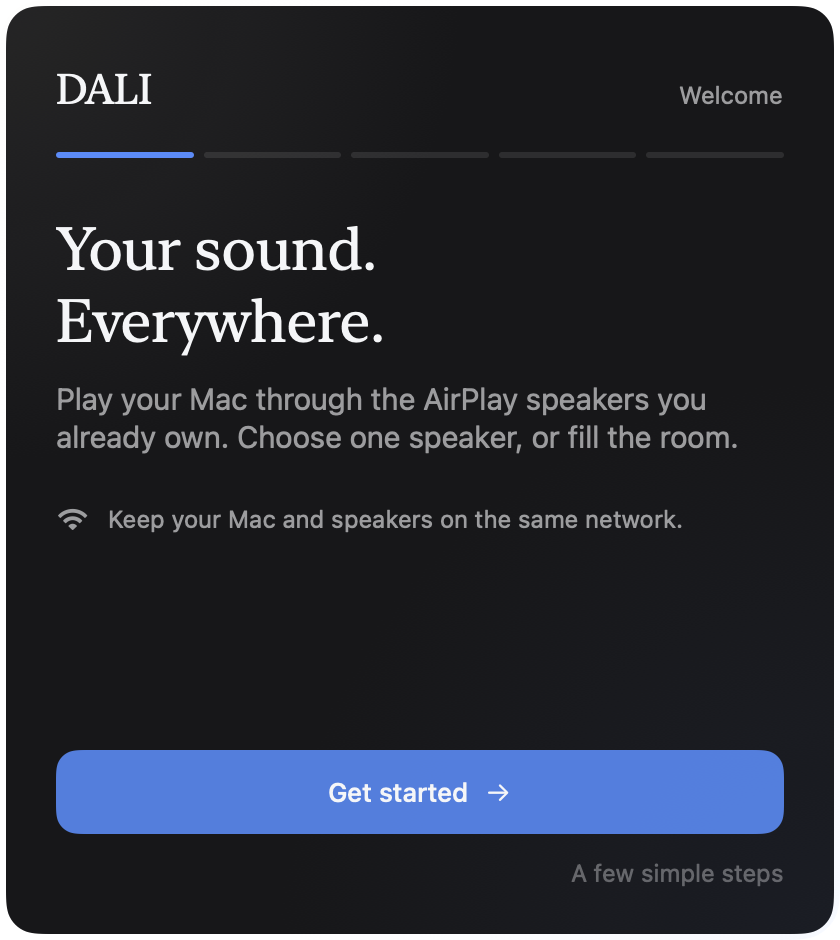
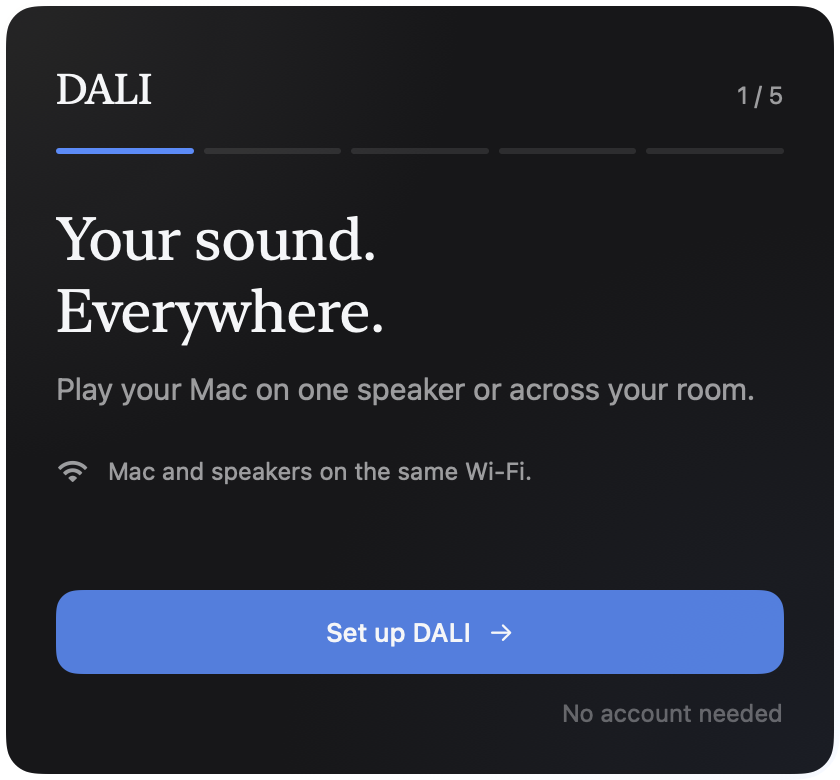
Simplify onboarding copy and make setup actions primary

diff --git a/Sources/DALI/Views/OnboardingView.swift b/Sources/DALI/Views/OnboardingView.swift
@@ -23,6 +23,8 @@ struct OnboardingView: View {
 
     @Environment(\.accessibilityReduceMotion) private var reduceMotion
     @State private var actionError: String?
+    @State private var audioSettingsOpened = false
+    @State private var browserSetupOpened = false
     @State private var helper = AudioPermissionHelper()
 
     private var selectedCount: Int { speakers.filter { $0.selected && $0.available }.count }
@@ -30,7 +32,7 @@ struct OnboardingView: View {
     var body: some View {
         VStack(alignment: .leading, spacing: 0) {
             header
-            progress.padding(.top, 18).padding(.bottom, 27)
+            progress.padding(.top, 16).padding(.bottom, 24)
             ScrollView {
                 VStack(alignment: .leading, spacing: 19) {
                     page
@@ -51,7 +53,7 @@ struct OnboardingView: View {
         .padding(.horizontal, 28)
         .padding(.top, 32)
         .padding(.bottom, 26)
-        .frame(width: 420, height: state.step == .welcome || state.step == .ready ? 470 : 660)
+        .frame(width: 420, height: state.step == .welcome || state.step == .ready ? 390 : 540)
         .background(background.ignoresSafeArea())
         .preferredColorScheme(.dark)
         .onChange(of: state.step) { _, step in
@@ -67,7 +69,7 @@ struct OnboardingView: View {
         HStack(alignment: .firstTextBaseline) {
             Text("DALI").font(.serifSection).foregroundStyle(Color.paper)
             Spacer()
-            Text(state.step.label).font(.bodySmall).foregroundStyle(Color.paper60)
+            Text("\(state.step.rawValue + 1) / \(OnboardingState.Step.allCases.count)").font(.bodySmall).foregroundStyle(Color.paper60)
         }
     }
 
@@ -94,10 +96,10 @@ struct OnboardingView: View {
 
     private var welcome: some View {
         VStack(alignment: .leading, spacing: 24) {
-            title("Your sound.\nEverywhere.", body: "Play your Mac through the AirPlay speakers you already own. Choose one speaker, or fill the room.")
+            title("Your sound.\nEverywhere.", body: "Play your Mac on one speaker or across your room.")
             HStack(spacing: 9) {
                 Image(systemName: "wifi").foregroundStyle(Color.paper60)
-                Text("Keep your Mac and speakers on the same network.")
+                Text("Mac and speakers on the same Wi-Fi.")
                     .font(.bodySmall).foregroundStyle(Color.paper60)
             }
         }
@@ -105,30 +107,23 @@ struct OnboardingView: View {
 
     private var audio: some View {
         VStack(alignment: .leading, spacing: 19) {
-            title("Let your Mac\nshare its audio.", body: "DALI needs system audio access to send sound to your speakers. Your microphone is not used.")
-            VStack(alignment: .leading, spacing: 13) {
-                instruction("1", "Open System Settings", detail: "Privacy & Security → Screen & System Audio Recording.")
-                instruction("2", "Add DALI and turn it on", detail: "Drag the app below into the list. If macOS does not accept the drop, use + and choose DALI.")
-            }
+            title("Allow Mac audio.", body: "One permission to play sound on your speakers. No microphone access needed.")
             AudioPermissionCard(preview: preview, icon: previewIcon)
-            smallAction("Open System Settings", symbol: "arrow.up.forward") {
-                guard !preview else { return }
-                let url = URL(string: "x-apple.systempreferences:com.apple.preference.security?Privacy_AudioCapture")!
-                if NSWorkspace.shared.open(url) {
-                    helper.show()
-                } else {
-                    actionError = "Open System Settings, then Privacy & Security → Screen & System Audio Recording."
-                }
-            }
-            Text("macOS may ask for permission when you first start audio. If it asks you to reopen DALI, setup will resume here.")
+            Text("In System Settings, add DALI to Screen & System Audio Recording and turn it on.")
                 .font(.bodySmall).foregroundStyle(Color.paper60)
                 .fixedSize(horizontal: false, vertical: true)
+            Text("Drag the app into the list, or use + to choose it.")
+                .font(.bodySmall).foregroundStyle(Color.paper60)
+            if audioSettingsOpened {
+                smallAction("Open settings again", symbol: "arrow.up.forward") { openAudioSettings() }
+            }
+
         }
     }
 
     private var speakerSelection: some View {
         VStack(alignment: .leading, spacing: 19) {
-            title("Make it your room.", body: "Choose the speakers you want to play together. You can change this whenever you like.")
+            title("Choose your speakers.", body: "Select one or more. You can change this later.")
             if let discoveryError {
                 VStack(alignment: .leading, spacing: 8) {
                     Text("Speakers are not available yet.").font(.bodyMedium).foregroundStyle(Color.paper)
@@ -141,7 +136,7 @@ struct OnboardingView: View {
                 VStack(spacing: 13) {
                     SpeakerIcon(kind: .pair).scaleEffect(1.15)
                     Text("Looking for AirPlay speakers…").font(.bodyMedium).foregroundStyle(Color.paper)
-                    Text("Switch your speakers on and check they are on the same Wi-Fi. Allow local network access if macOS asks.")
+                    Text("Turn them on and connect to the same Wi-Fi. Allow local network access if asked.")
                         .font(.bodySmall).foregroundStyle(Color.paper60)
                         .multilineTextAlignment(.center)
                         .fixedSize(horizontal: false, vertical: true)
@@ -183,31 +178,33 @@ struct OnboardingView: View {
 
     private var browser: some View {
         VStack(alignment: .leading, spacing: 19) {
-            title("Keep the picture\nwith the sound.", body: "Add DALI Video Sync to Chrome for YouTube, TikTok, Instagram and other video sites.")
+            title("Watch in sync.", body: "Optional. Add the Chrome extension to match video with your room audio.")
             VStack(alignment: .leading, spacing: 16) {
-                instruction("1", "Open Chrome extensions", detail: "Turn on Developer mode in the top-right corner.")
-                instruction("2", "Choose Load unpacked", detail: "Select the ChromeExtension folder opened below.")
-                instruction("3", "Play a video", detail: "Sync follows DALI when room audio is playing. Some protected videos cannot be delayed.")
+                instruction("1", "Turn on Developer mode", detail: "At the top of Chrome’s extensions page.")
+                instruction("2", "Click Load unpacked", detail: "Choose the ChromeExtension folder we open for you.")
             }
-            .padding(17).background(CardBackground())
-            HStack(spacing: 19) {
-                smallAction("Open Chrome", symbol: "arrow.up.forward") { openChrome() }
-                smallAction("Show extension", symbol: "folder") { revealExtension() }
+            if browserSetupOpened {
+                HStack(spacing: 20) {
+                    smallAction("Open Chrome again", symbol: "arrow.up.forward") { openChrome() }
+                    smallAction("Show folder", symbol: "folder") { revealExtension() }
+                }
             }
-            Text("The extension stays in one folder when DALI updates. Chrome may require Reload after its files change.")
+            Text("YouTube, TikTok, Instagram and other video sites. Some protected videos cannot be synced.")
                 .font(.bodySmall).foregroundStyle(Color.paper60)
                 .fixedSize(horizontal: false, vertical: true)
+
         }
     }
 
     private var ready: some View {
         VStack(alignment: .leading, spacing: 24) {
-            title("A little more room\nfor your music.", body: selectedCount > 0
-                  ? "\(selectedCount == 1 ? "Your speaker is" : "Your \(selectedCount) speakers are") selected. Open DALI and press Play when you are ready."
-                  : "Open DALI to choose your speakers and start room audio. Setup stays available in Settings.")
-            Text("Use your Mac's volume keys as usual. Speaker choices and your volume limit are saved for next time.")
+            title("Ready when you are.", body: selectedCount > 0
+                  ? "\(selectedCount == 1 ? "1 speaker selected" : "\(selectedCount) speakers selected"). Press Play in DALI when you’re ready."
+                  : "Choose your speakers in DALI, then press Play.")
+            Text("Your Mac’s volume keys work as usual. Setup is always available in Settings.")
                 .font(.bodySmall).foregroundStyle(Color.paper60)
                 .fixedSize(horizontal: false, vertical: true)
+
         }
     }
 
@@ -241,16 +238,47 @@ struct OnboardingView: View {
         .buttonStyle(.plain)
     }
 
+    private var primaryLabel: String {
+        switch state.step {
+        case .welcome: "Set up DALI"
+        case .audio: audioSettingsOpened ? "Continue" : "Open System Settings"
+        case .browser: browserSetupOpened ? "Continue" : "Set up Chrome"
+        case .ready: "Open DALI"
+        case .speakers: "Continue"
+        }
+    }
+
+    private func openAudioSettings() {
+        guard !preview else { return }
+        let url = URL(string: "x-apple.systempreferences:com.apple.preference.security?Privacy_AudioCapture")!
+        if NSWorkspace.shared.open(url) {
+            audioSettingsOpened = true
+            helper.show()
+        } else {
+            actionError = "Open System Settings → Privacy & Security → Screen & System Audio Recording."
+        }
+    }
+
     private var footer: some View {
         VStack(spacing: 12) {
             Button {
                 guard !preview else { return }
+                if state.step == .audio && !audioSettingsOpened { openAudioSettings(); return }
+                if state.step == .browser && !browserSetupOpened {
+                    do {
+                        let folder = try ExtensionInstaller.install()
+                        NSWorkspace.shared.activateFileViewerSelecting([folder])
+                        openChrome()
+                        browserSetupOpened = true
+                    } catch { actionError = error.localizedDescription }
+                    return
+                }
                 if state.step == .ready { finish() }
                 else { withAnimation(reduceMotion ? nil : .easeInOut(duration: 0.2)) { state.advance() } }
             } label: {
                 HStack {
                     Spacer()
-                    Text(state.step == .ready ? "Open DALI" : state.step == .welcome ? "Get started" : "Continue")
+                    Text(primaryLabel)
                     Image(systemName: "arrow.right").font(.system(size: 11, weight: .medium))
                     Spacer()
                 }
@@ -269,9 +297,9 @@ struct OnboardingView: View {
                 }
                 Spacer()
                 if state.step == .welcome {
-                    Text("A few simple steps").foregroundStyle(Color.paper35)
+                    Text("No account needed").foregroundStyle(Color.paper35)
                 } else if state.step != .ready {
-                    Button("Set up later") { if !preview { state.advance() } }
+                    Button("Skip for now") { if !preview { state.advance() } }
                 }
             }
             .font(.bodySmall).foregroundStyle(Color.paper60).buttonStyle(.plain)

diff --git a/scripts/onboarding-snapshot.swift b/scripts/onboarding-snapshot.swift
@@ -25,7 +25,7 @@ struct OnboardingSnapshot {
             let state = OnboardingState(preview: step)
             let root = OnboardingView(state: state, speakers: speakers, preview: true, previewIcon: icon)
             let view = NSHostingView(rootView: root)
-            let bounds = NSRect(x: 0, y: 0, width: 420, height: step == .welcome || step == .ready ? 470 : 660)
+            let bounds = NSRect(x: 0, y: 0, width: 420, height: step == .welcome || step == .ready ? 390 : 540)
             let window = NSWindow(contentRect: bounds, styleMask: .borderless, backing: .buffered, defer: false)
             window.appearance = NSAppearance(named: .darkAqua)
             window.contentView = view
